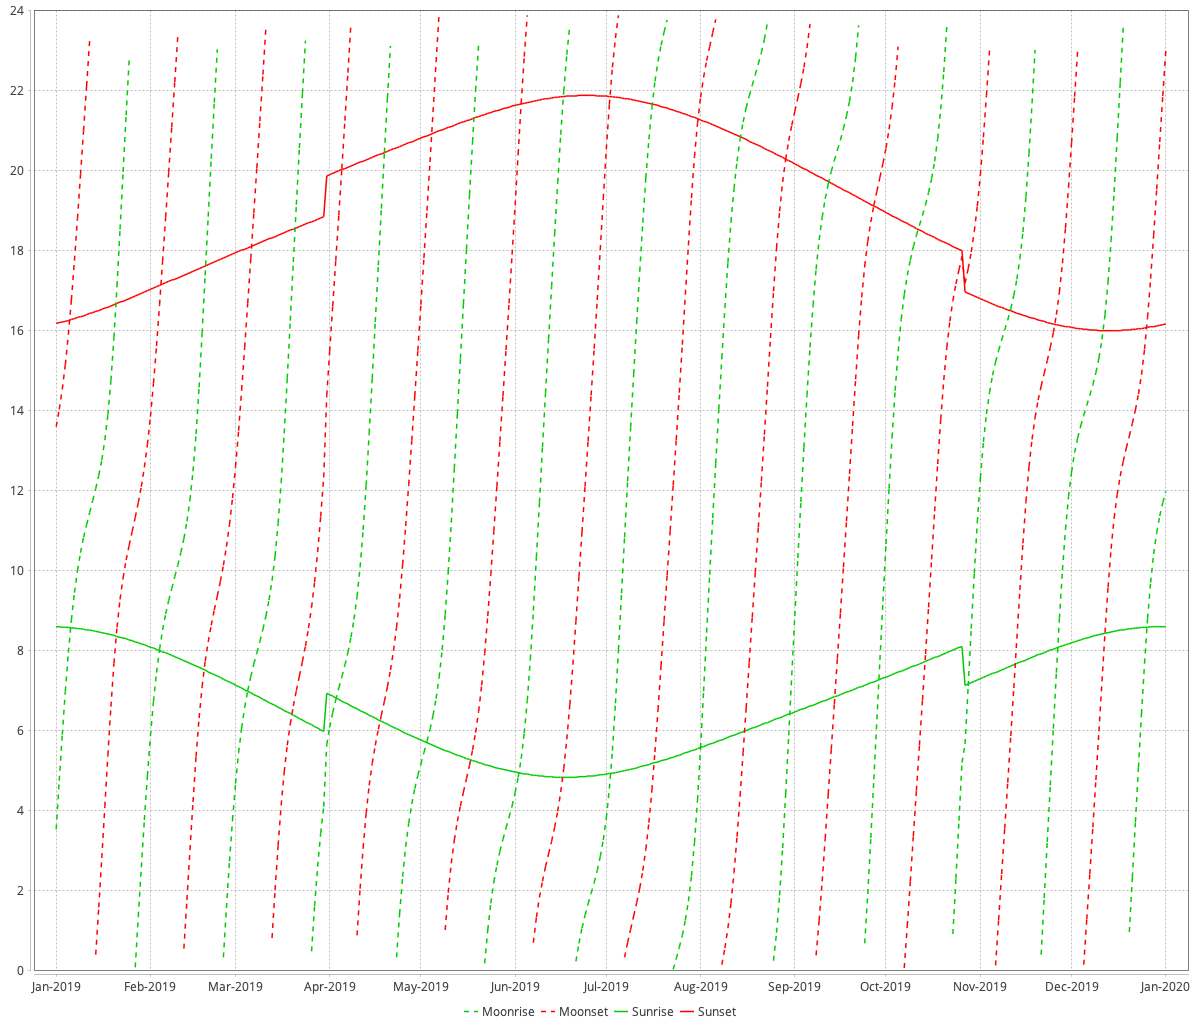
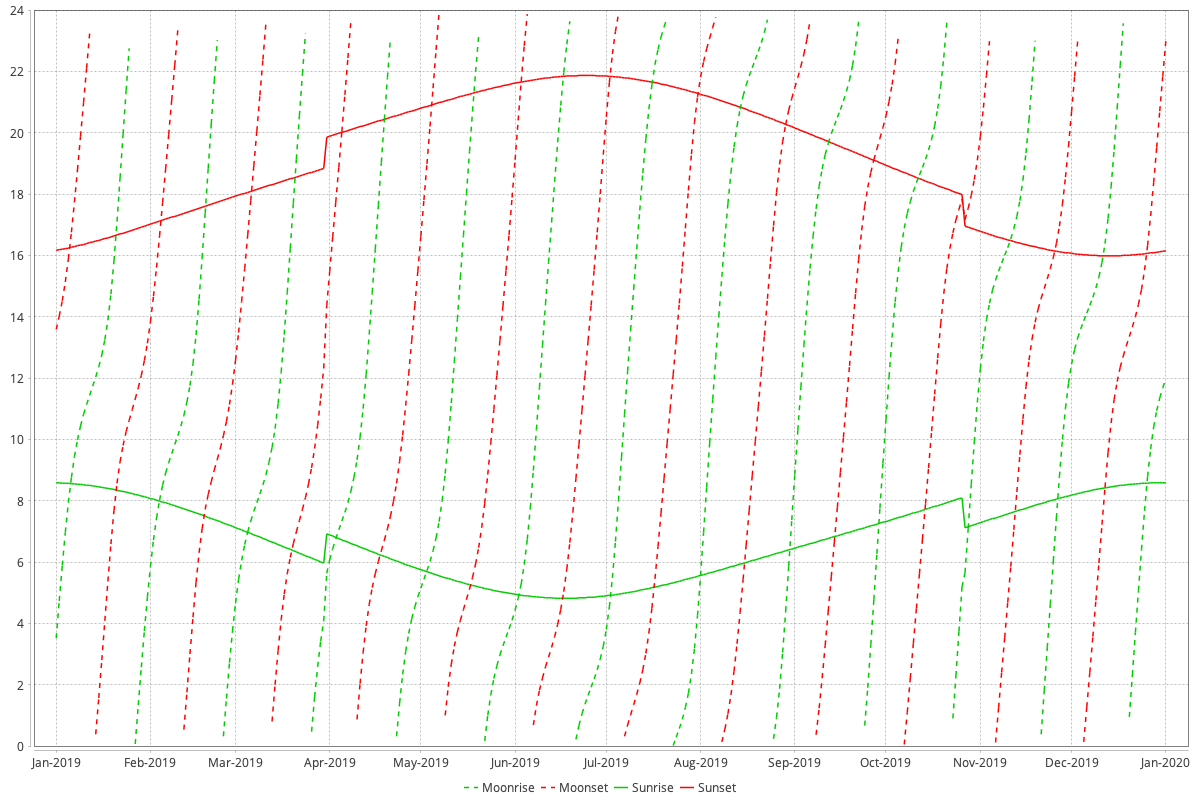
Improved moon data parsing. Changed diagram dimensions.

diff --git a/src/main/java/de/moritzpetersen/moonshot/diagram/AstroData.java b/src/main/java/de/moritzpetersen/moonshot/diagram/AstroData.java
@@ -9,7 +9,7 @@ import static java.lang.Integer.parseInt;
 
 public abstract class AstroData {
   private static final DateTimeFormatter FORMATTER = DateTimeFormatter.ofPattern("d MMM yyyy");
-  private final boolean isMatch;
+  private final boolean isValid;
   private int day;
   private int month;
   private int year;
@@ -18,26 +18,23 @@ public abstract class AstroData {
 
   public AstroData(final String str, final Pattern regex) {
     Matcher matcher = regex.matcher(str);
-    if (matcher.matches()) {
+    if (isValid = matcher.matches()) {
       LocalDate date = LocalDate.parse(matcher.group(1), FORMATTER);
       day = date.getDayOfMonth();
       month = date.getMonthValue();
       year = date.getYear();
       riseTime = toTime(matcher.group(2), matcher.group(3));
       setTime = toTime(matcher.group(4), matcher.group(5));
-      isMatch = true;
-    } else {
-      isMatch = false;
     }
   }
 
-  public boolean isMatch() {
-    return isMatch;
+  public boolean isValid() {
+    return isValid;
   }
 
   private Double toTime(final String hour, final String minute) {
     try {
-      return parseInt(minute.trim()) / 60d + parseInt(hour.trim());
+      return parseInt(minute) / 60d + parseInt(hour);
     } catch (Exception e) {
       return null;
     }

diff --git a/src/main/java/de/moritzpetersen/moonshot/diagram/MoonSunDiagramMain.java b/src/main/java/de/moritzpetersen/moonshot/diagram/MoonSunDiagramMain.java
@@ -36,7 +36,7 @@ public class MoonSunDiagramMain {
   private void fillDiagram(final Diagram diagram, final Path dataFile, final String name, final BasicStroke stroke, final Function<String, AstroData> dataMapper) throws IOException {
     TimeSeries riseSeries = new TimeSeries(name + "rise");
     TimeSeries setSeries = new TimeSeries(name + "set");
-    Files.lines(dataFile).map(dataMapper).filter(AstroData::isMatch).forEach(data -> {
+    Files.lines(dataFile).map(dataMapper).filter(AstroData::isValid).forEach(data -> {
         riseSeries.add(new Day(data.getDay(), data.getMonth(), data.getYear()), data.getRiseTime());
         setSeries.add(new Day(data.getDay(), data.getMonth(), data.getYear()), data.getSetTime());
     });

diff --git a/src/main/java/de/moritzpetersen/moonshot/diagram/MoonData.java b/src/main/java/de/moritzpetersen/moonshot/diagram/MoonData.java
@@ -3,7 +3,7 @@ package de.moritzpetersen.moonshot.diagram;
 import java.util.regex.Pattern;
 
 public class MoonData extends AstroData {
-  private static final Pattern REGEX = Pattern.compile("(\\d{1,2}\\s\\w{3}\\s\\d{4})\\sRise:\\s(.{1,2})h(.{1,2})m.*Set:\\s(.{1,2})h(.{1,2})m.*");
+  private static final Pattern REGEX = Pattern.compile("(\\d{1,2}\\s\\w{3}\\s\\d{4})\\sRise:\\s*(\\S{1,2})h(\\S{1,2})m.*Set:\\s*(\\S{1,2})h(\\S{1,2})m.*");
 
   public MoonData(final String str) {
     super(str, REGEX);

diff --git a/src/main/java/de/moritzpetersen/moonshot/diagram/Diagram.java b/src/main/java/de/moritzpetersen/moonshot/diagram/Diagram.java
@@ -55,7 +55,7 @@ public class Diagram {
   }
 
   public void write(final Path outputFile) throws IOException {
-    BufferedImage bufferedImage = chart.createBufferedImage(1200, 1024);
+    BufferedImage bufferedImage = chart.createBufferedImage(1200, 800);
     String fileName = outputFile.getFileName().toString();
     String type = fileName.substring(fileName.lastIndexOf('.') + 1);
     ImageIO.write(bufferedImage, type, outputFile.toFile());
